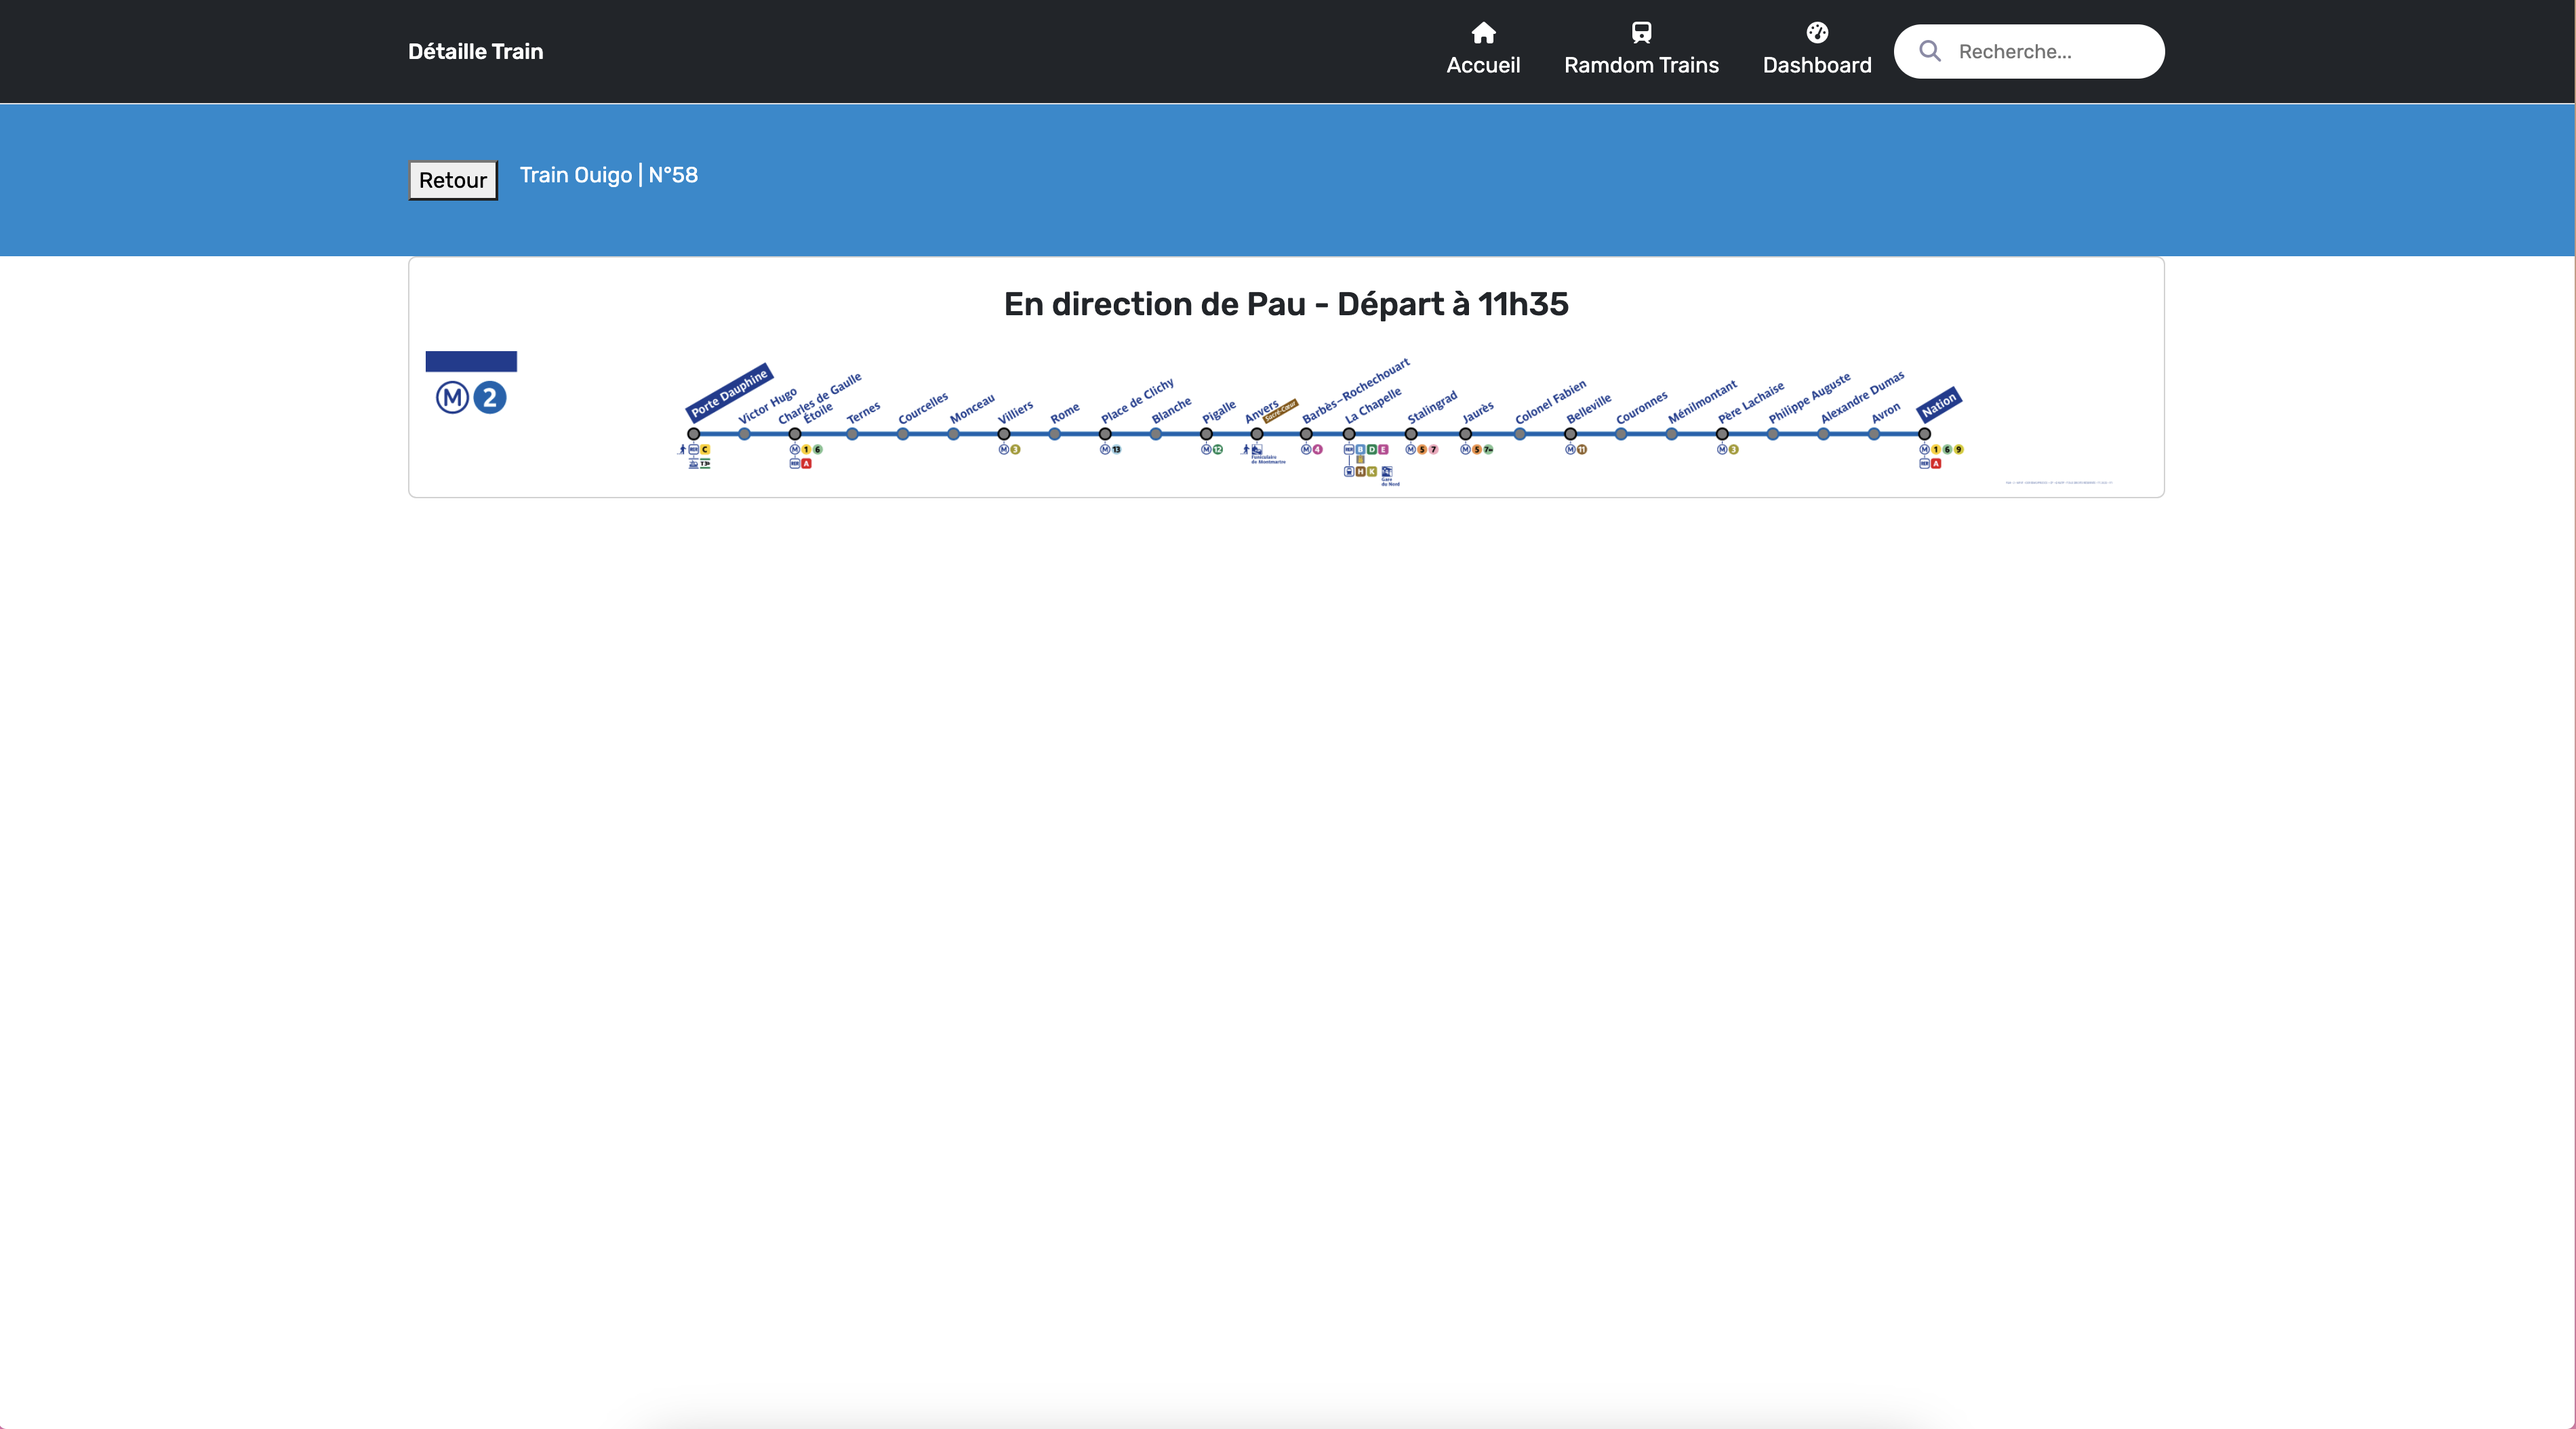
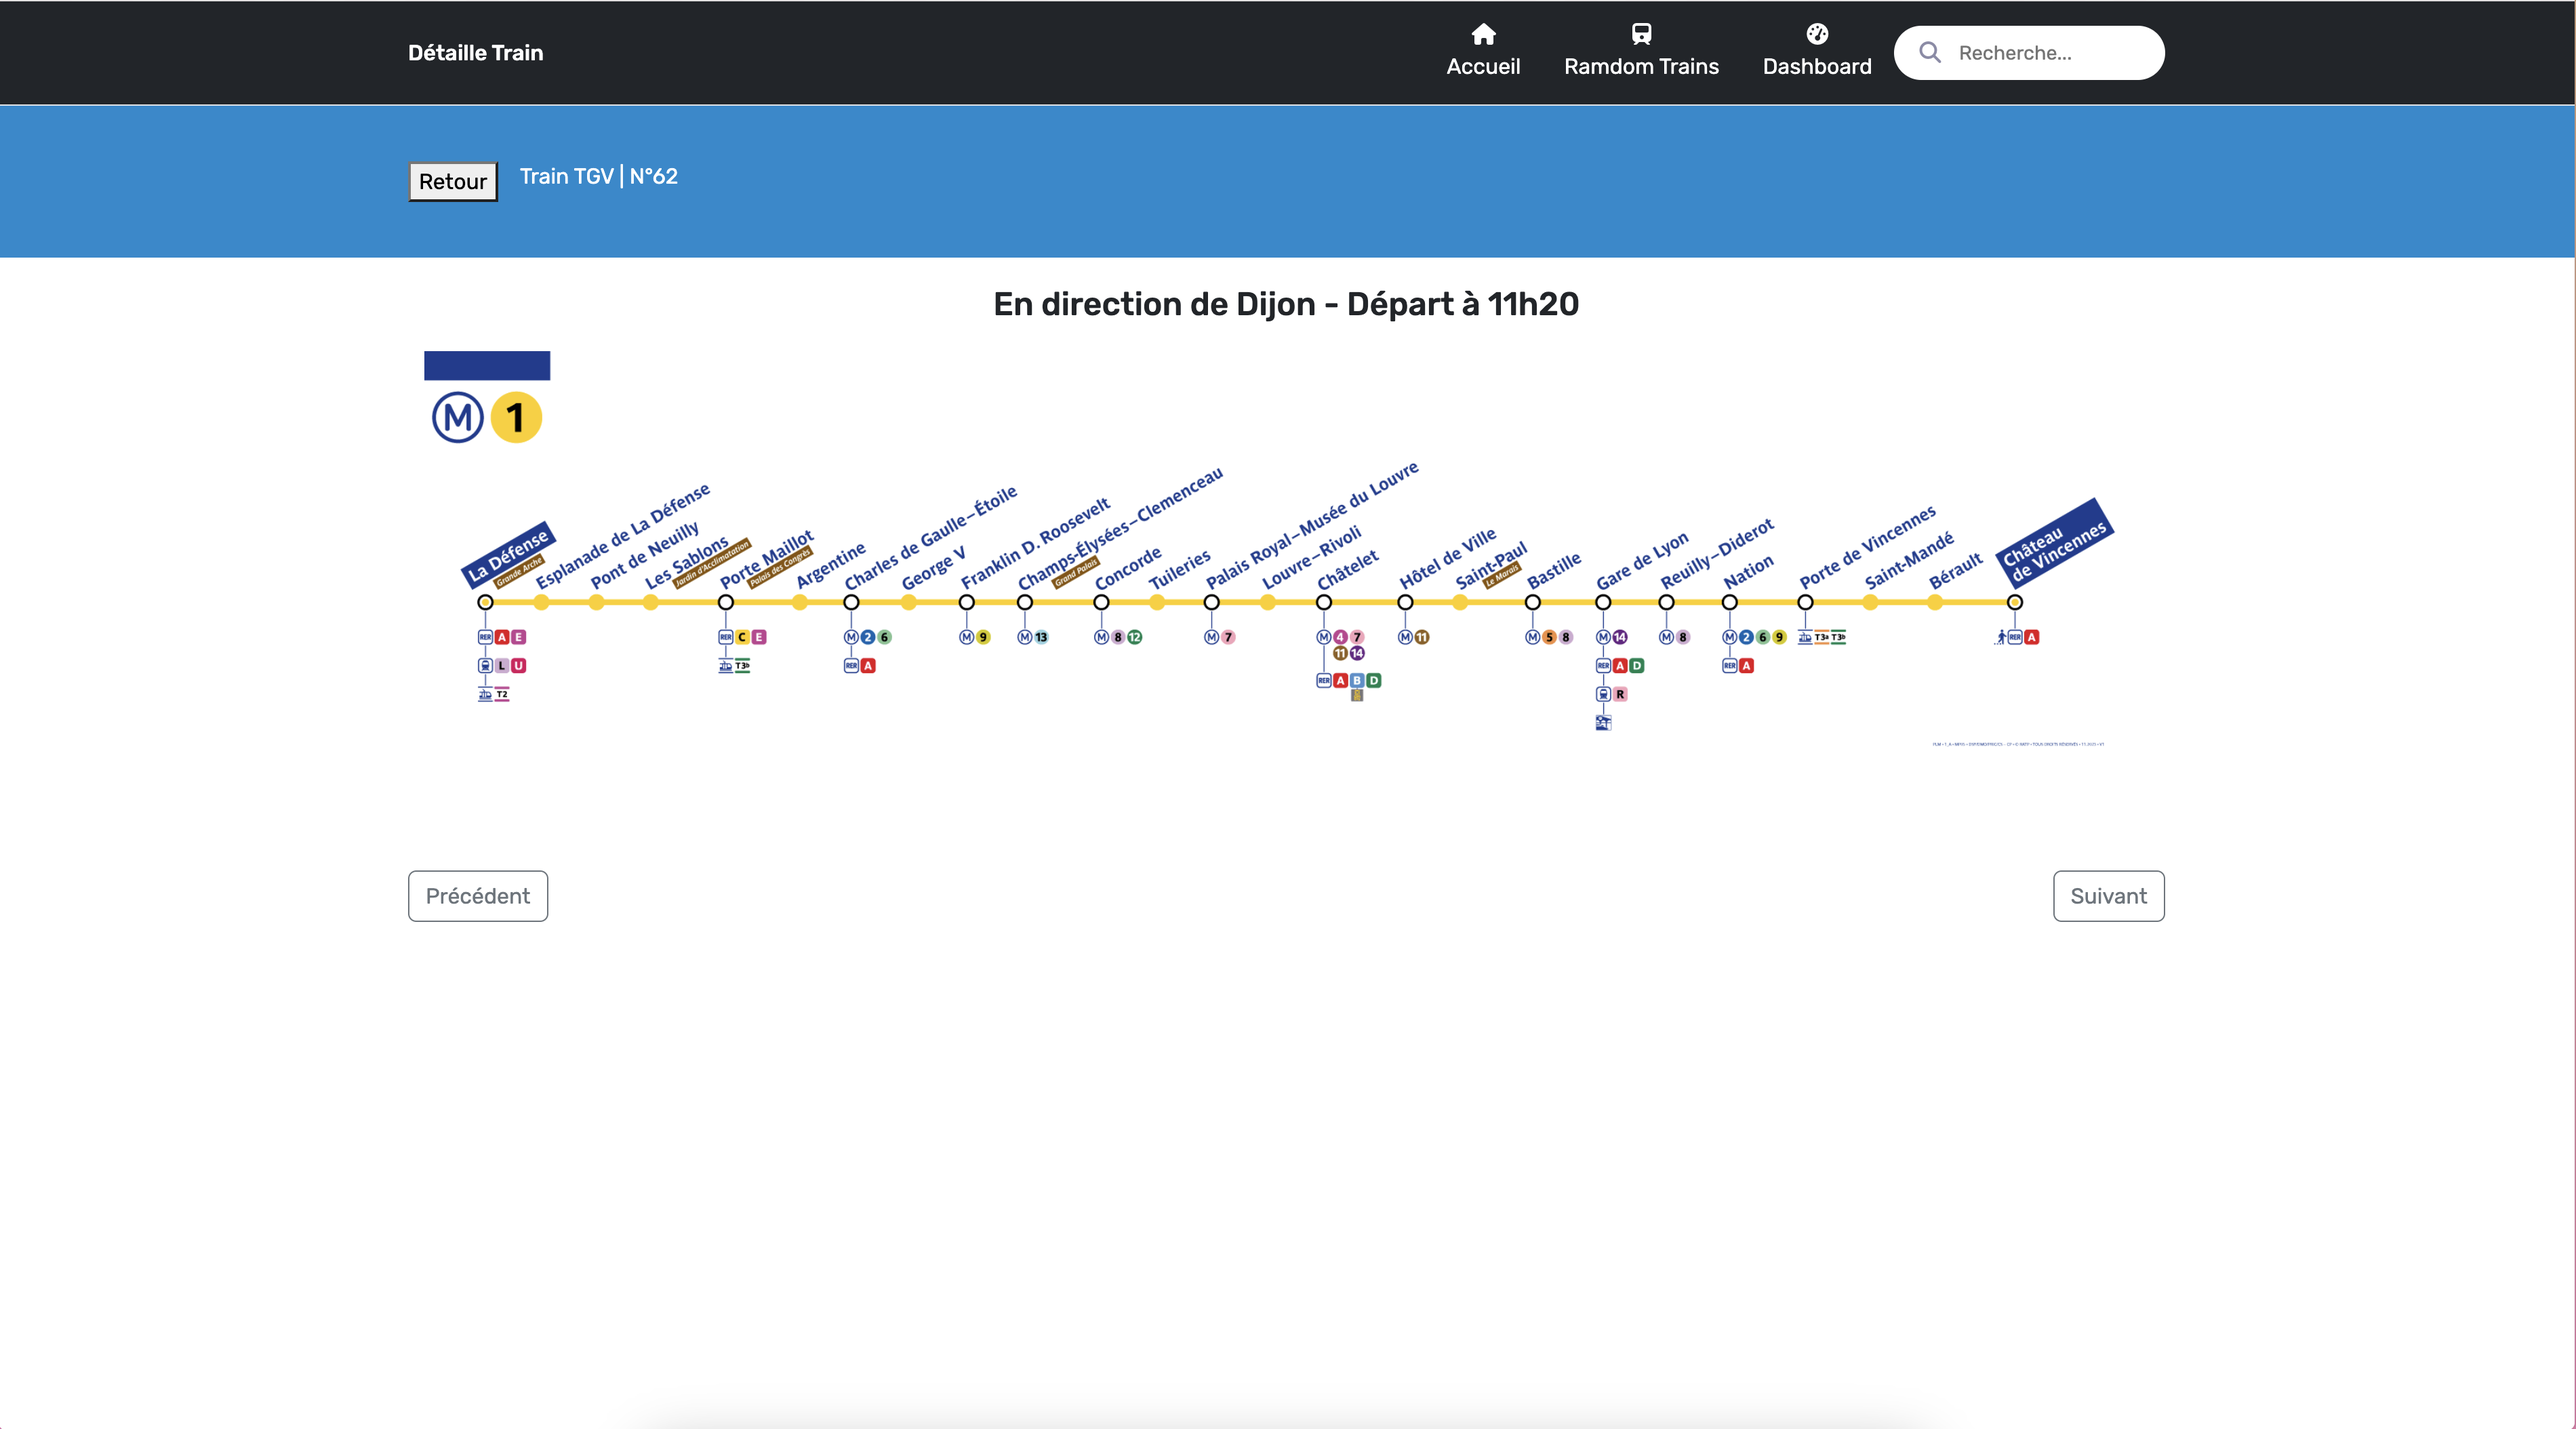
anthonyzhao.fr

diff --git a/trains/templates/trains/detailleTrain.html b/trains/templates/trains/detailleTrain.html
@@ -80,11 +80,14 @@
                 <h1>Train {{ company }} | N°{{ ID }}</h1>
             </div>
         </div>
-        <div class="content-card container d-flex ">
+        <div class="content-card container d-flex flex-column contenaire">
                 <div class="card container">
                     <h2>En direction de {{ destination }} - Départ à {{ datetime }}</h2>
                     <span><img src="{% static 'trains/img/' %}{{ randomplan }}.webp" alt=""></span>
-                    
+                </div>
+                <div class="d-flex justify-content-between">
+                    <a href="http://localhost:8000/trains/detailleTrain/{{ prevId }}"><button class="btn btn-outline-secondary">Précédent</button></a>
+                    <a href="http://localhost:8000/trains/detailleTrain/{{ nextId }}"><button class="btn btn-outline-secondary">Suivant</button></a>
                 </div>
         </div>
     </main>

diff --git a/trains/templates/trains/rechercheFiltrer.html b/trains/templates/trains/rechercheFiltrer.html
@@ -39,7 +39,7 @@
 
                 <ul class="nav col-12 col-lg-auto my-2 justify-content-center my-md-0 text-small">
                     <li>
-                    <a href="{% url 'accueil' %}" class="nav-link text-secondary">
+                    <a href="{% url 'accueil' %}" class="nav-link text-white">
                         <i class="fa-solid fa-house bi d-block mx-auto mb-1" style="text-align: center;"></i>
                         Accueil
                     </a>

diff --git a/trains/static/trains/css/detailleTrain.css b/trains/static/trains/css/detailleTrain.css
@@ -39,3 +39,22 @@ body {
     font-family: "Rubik", sans-serif;
     margin: 20px 0 20px 0;
 }
+
+.card {
+    border: 0;
+}
+
+.card .btn {
+
+    border: 0;
+    padding: 10px 20px;
+    border-radius: 5px;
+    font-size: 1rem;
+    font-weight: 500;
+    margin: 0 auto;
+    display: block;
+}
+
+.contenaire {
+    gap: 5rem;
+}

diff --git a/trains/views.py b/trains/views.py
@@ -26,6 +26,7 @@ def detailleTrain(request, Idtrain) :
         "duration": detailTrain.duration,
 
         "nextId": int(Idtrain) + 1,
+        "prevId": int(Idtrain) - 1,
         "randomplan" : int(random.randint(1, 6)),
     })
 
